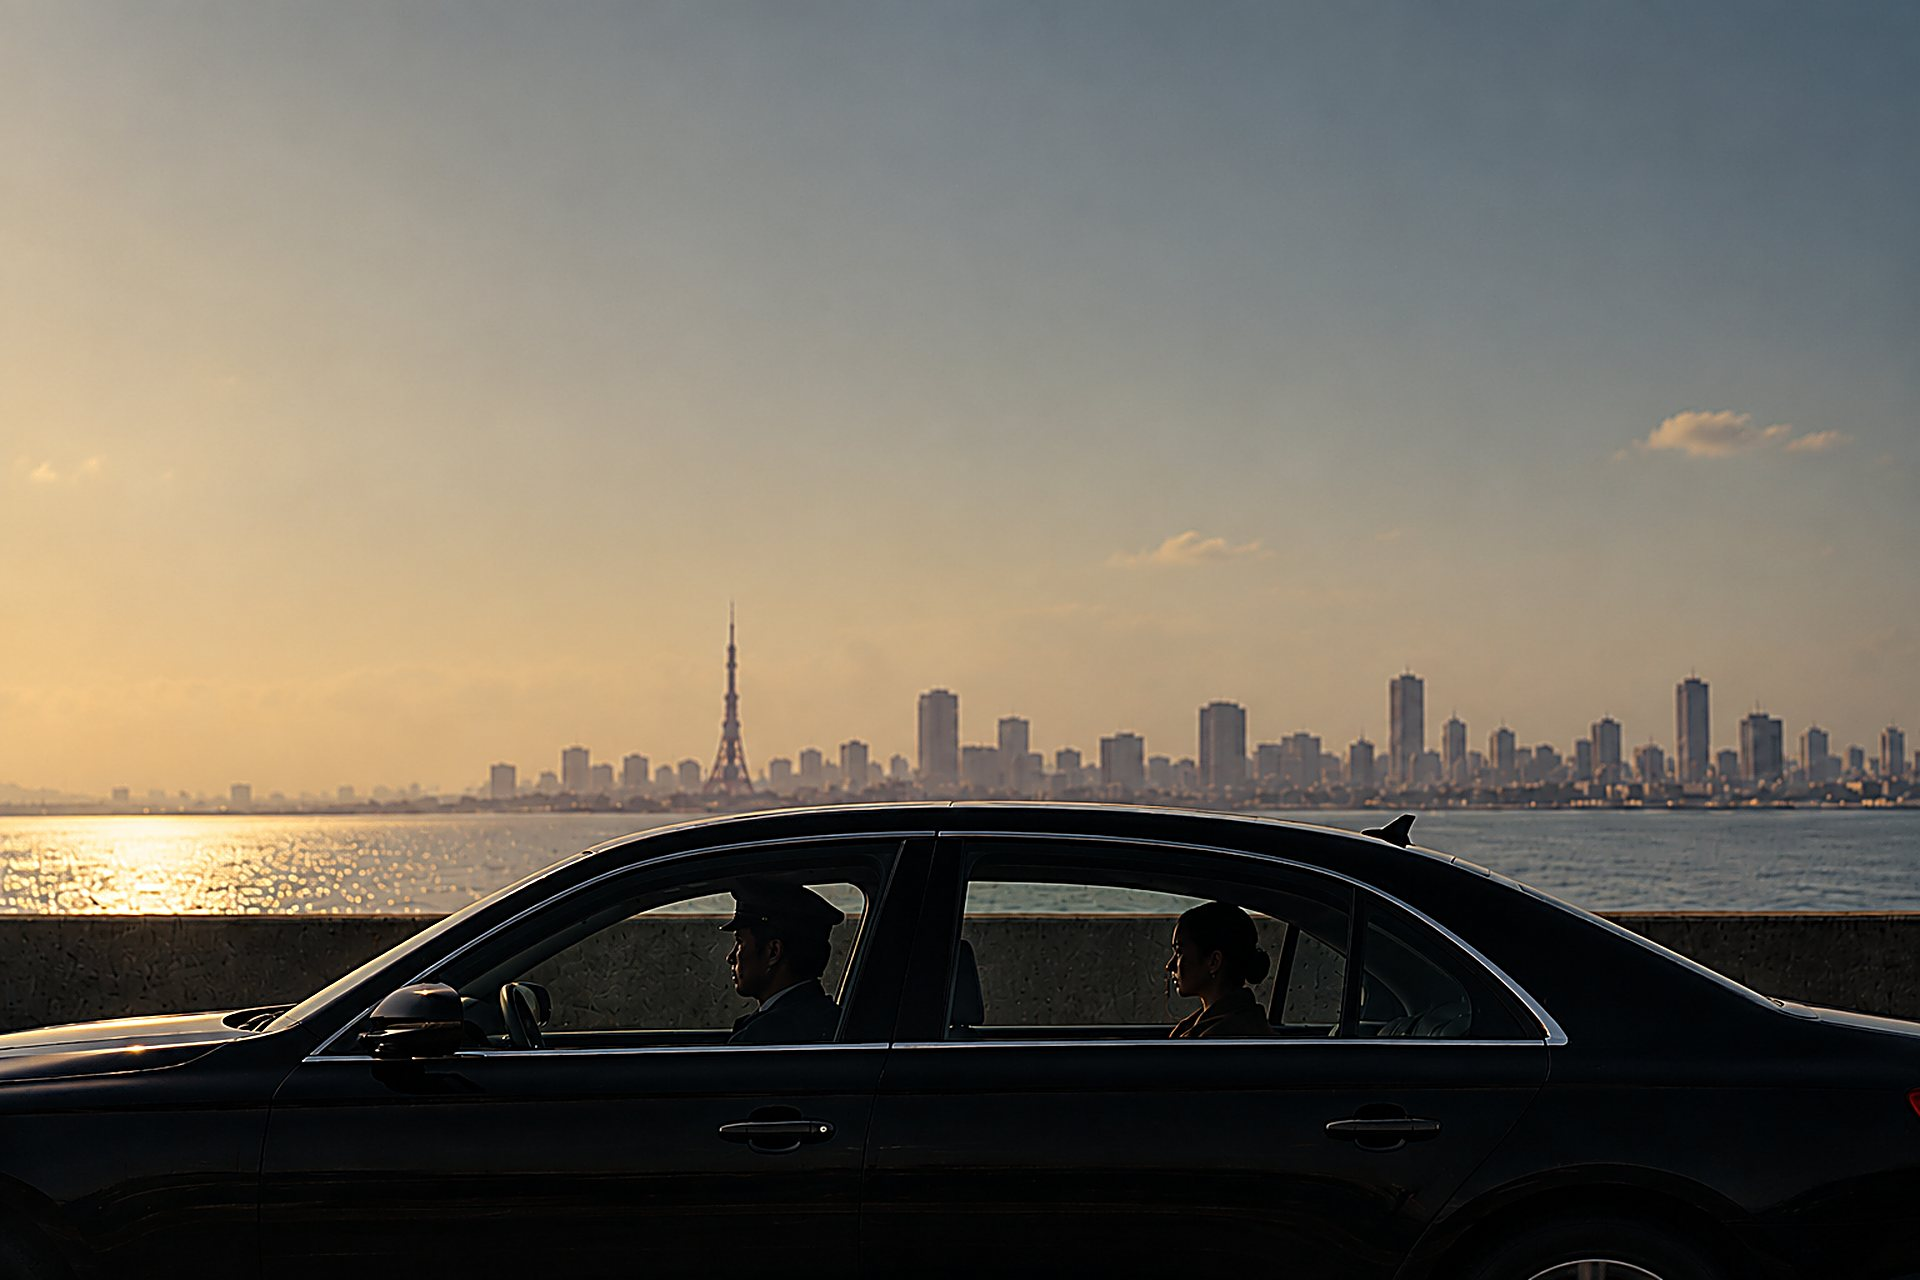
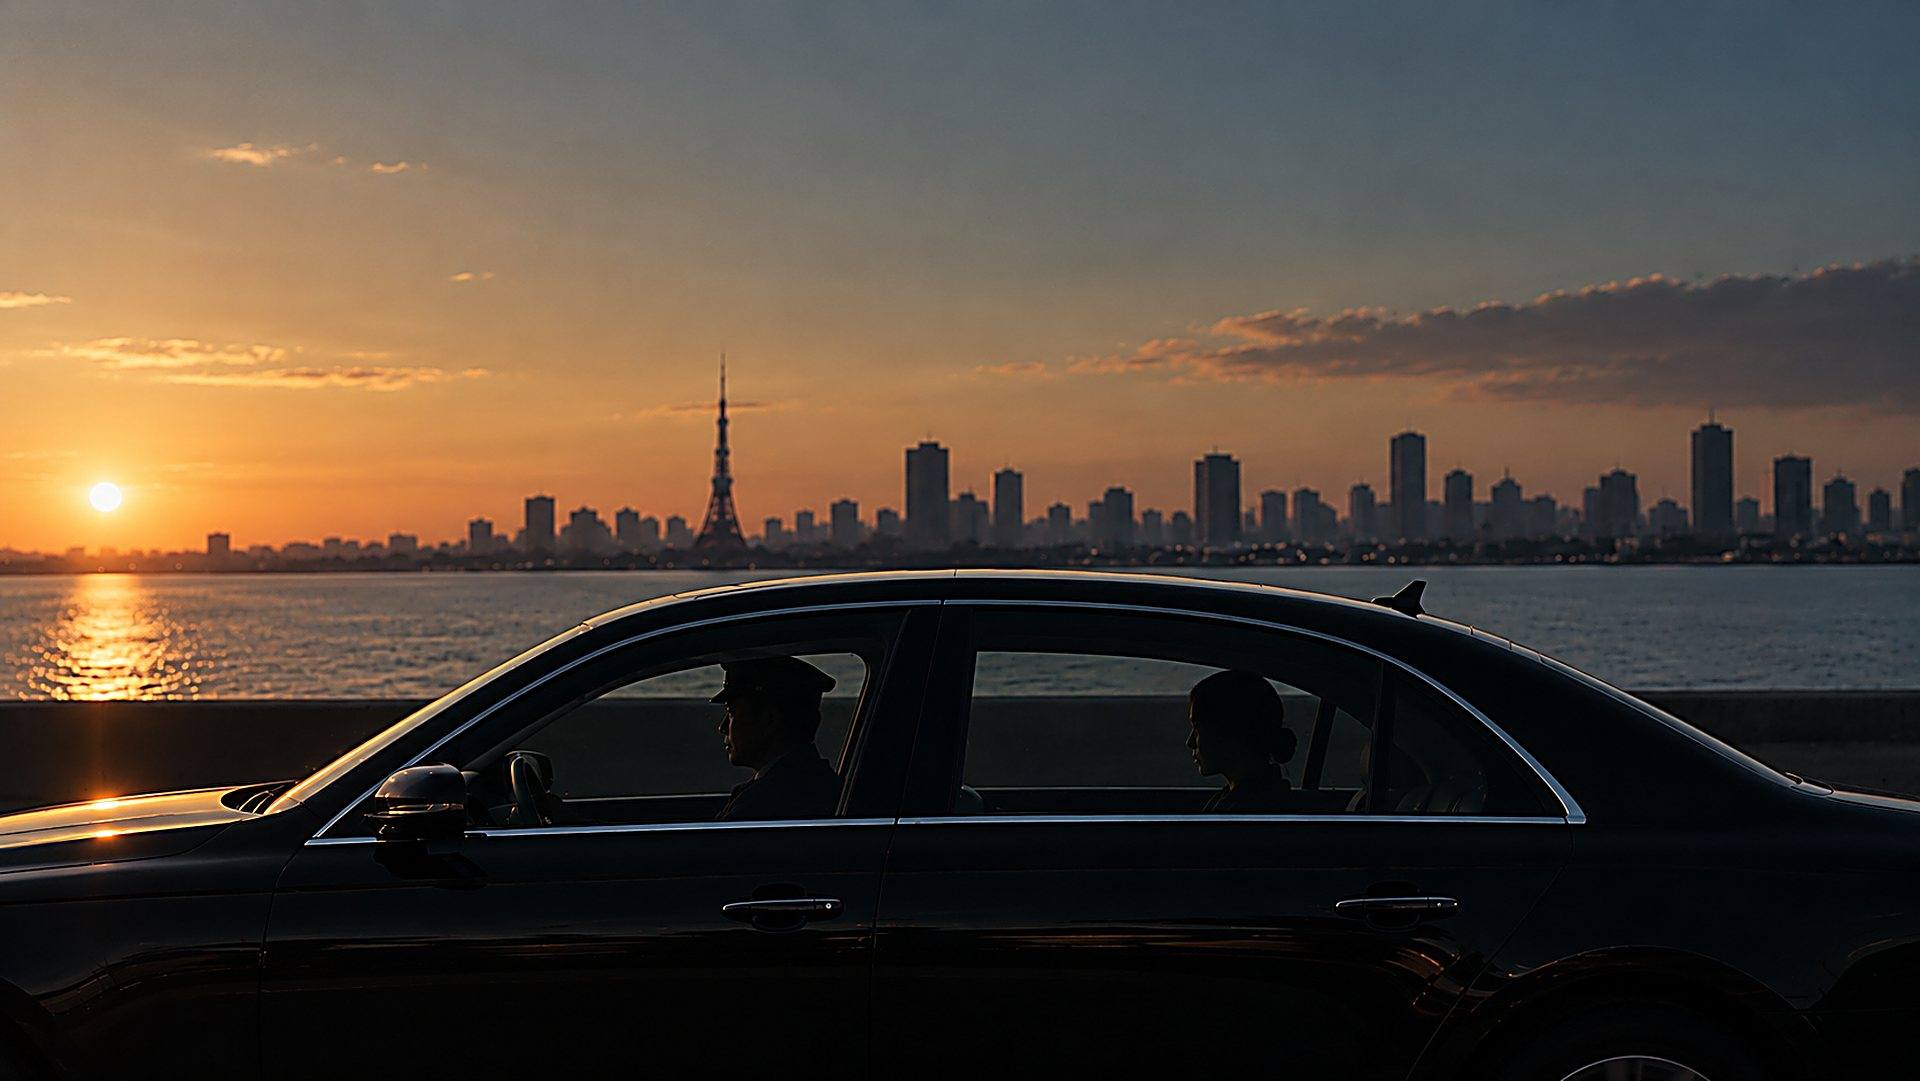
Use the sunset image for Tokyo on the home page

diff --git a/news/daddys-girl-dvd-and-vod-release.html b/news/daddys-girl-dvd-and-vod-release.html
@@ -19,7 +19,7 @@
 <link rel="icon" type="image/png" sizes="48x48" href="../images/icon-48.png">
 <link rel="icon" type="image/png" sizes="512x512" href="../images/icon-512.png">
 <link rel="apple-touch-icon" href="../images/icon-180.png">
-<link rel="stylesheet" href="../css/site.css?v=202610110440">
+<link rel="stylesheet" href="../css/site.css?v=202610110446">
 </head>
 <body>
 <header class="site-header">
@@ -99,6 +99,6 @@ Festival for the film. The cast is led by Jemma Dallender and Costas Mandylor, f
   <div class="frame"><iframe src="" title="Trailer" allow="autoplay; encrypted-media; picture-in-picture; fullscreen" referrerpolicy="strict-origin-when-cross-origin" allowfullscreen></iframe>
     <a class="yt-link" href="#" target="_blank" rel="noopener">Not playing? Watch on YouTube &rarr;</a></div>
 </div>
-<script src="../js/site.js?v=202610110440"></script>
+<script src="../js/site.js?v=202610110446"></script>
 </body>
 </html>

diff --git a/news/dark-light-us-release.html b/news/dark-light-us-release.html
@@ -19,7 +19,7 @@
 <link rel="icon" type="image/png" sizes="48x48" href="../images/icon-48.png">
 <link rel="icon" type="image/png" sizes="512x512" href="../images/icon-512.png">
 <link rel="apple-touch-icon" href="../images/icon-180.png">
-<link rel="stylesheet" href="../css/site.css?v=202610110440">
+<link rel="stylesheet" href="../css/site.css?v=202610110446">
 </head>
 <body>
 <header class="site-header">
@@ -98,6 +98,6 @@ Vertical Entertainment, according to Box Office Mojo&rsquo;s listing for the fil
   <div class="frame"><iframe src="" title="Trailer" allow="autoplay; encrypted-media; picture-in-picture; fullscreen" referrerpolicy="strict-origin-when-cross-origin" allowfullscreen></iframe>
     <a class="yt-link" href="#" target="_blank" rel="noopener">Not playing? Watch on YouTube &rarr;</a></div>
 </div>
-<script src="../js/site.js?v=202610110440"></script>
+<script src="../js/site.js?v=202610110446"></script>
 </body>
 </html>

diff --git a/news/tokyo-announced-for-2027.html b/news/tokyo-announced-for-2027.html
@@ -19,7 +19,7 @@
 <link rel="icon" type="image/png" sizes="48x48" href="../images/icon-48.png">
 <link rel="icon" type="image/png" sizes="512x512" href="../images/icon-512.png">
 <link rel="apple-touch-icon" href="../images/icon-180.png">
-<link rel="stylesheet" href="../css/site.css?v=202610110440">
+<link rel="stylesheet" href="../css/site.css?v=202610110446">
 </head>
 <body>
 <header class="site-header">
@@ -99,6 +99,6 @@ of his own. The two share almost no language, and the film stays with them acros
   <div class="frame"><iframe src="" title="Trailer" allow="autoplay; encrypted-media; picture-in-picture; fullscreen" referrerpolicy="strict-origin-when-cross-origin" allowfullscreen></iframe>
     <a class="yt-link" href="#" target="_blank" rel="noopener">Not playing? Watch on YouTube &rarr;</a></div>
 </div>
-<script src="../js/site.js?v=202610110440"></script>
+<script src="../js/site.js?v=202610110446"></script>
 </body>
 </html>

diff --git a/news/winter-dreams-in-development.html b/news/winter-dreams-in-development.html
@@ -19,7 +19,7 @@
 <link rel="icon" type="image/png" sizes="48x48" href="../images/icon-48.png">
 <link rel="icon" type="image/png" sizes="512x512" href="../images/icon-512.png">
 <link rel="apple-touch-icon" href="../images/icon-180.png">
-<link rel="stylesheet" href="../css/site.css?v=202610110440">
+<link rel="stylesheet" href="../css/site.css?v=202610110446">
 </head>
 <body>
 <header class="site-header">
@@ -99,6 +99,6 @@ self-loss: a story of chasing dreams, loving illusions, and waking up too late.<
   <div class="frame"><iframe src="" title="Trailer" allow="autoplay; encrypted-media; picture-in-picture; fullscreen" referrerpolicy="strict-origin-when-cross-origin" allowfullscreen></iframe>
     <a class="yt-link" href="#" target="_blank" rel="noopener">Not playing? Watch on YouTube &rarr;</a></div>
 </div>
-<script src="../js/site.js?v=202610110440"></script>
+<script src="../js/site.js?v=202610110446"></script>
 </body>
 </html>

diff --git a/news/chasm-coming-2027.html b/news/chasm-coming-2027.html
@@ -19,7 +19,7 @@
 <link rel="icon" type="image/png" sizes="48x48" href="../images/icon-48.png">
 <link rel="icon" type="image/png" sizes="512x512" href="../images/icon-512.png">
 <link rel="apple-touch-icon" href="../images/icon-180.png">
-<link rel="stylesheet" href="../css/site.css?v=202610110440">
+<link rel="stylesheet" href="../css/site.css?v=202610110446">
 </head>
 <body>
 <header class="site-header">
@@ -98,6 +98,6 @@ exploration of the space between silence, mystery, and becoming.</p>
   <div class="frame"><iframe src="" title="Trailer" allow="autoplay; encrypted-media; picture-in-picture; fullscreen" referrerpolicy="strict-origin-when-cross-origin" allowfullscreen></iframe>
     <a class="yt-link" href="#" target="_blank" rel="noopener">Not playing? Watch on YouTube &rarr;</a></div>
 </div>
-<script src="../js/site.js?v=202610110440"></script>
+<script src="../js/site.js?v=202610110446"></script>
 </body>
 </html>

diff --git a/news/dark-light-world-premiere-frightfest.html b/news/dark-light-world-premiere-frightfest.html
@@ -19,7 +19,7 @@
 <link rel="icon" type="image/png" sizes="48x48" href="../images/icon-48.png">
 <link rel="icon" type="image/png" sizes="512x512" href="../images/icon-512.png">
 <link rel="apple-touch-icon" href="../images/icon-180.png">
-<link rel="stylesheet" href="../css/site.css?v=202610110440">
+<link rel="stylesheet" href="../css/site.css?v=202610110446">
 </head>
 <body>
 <header class="site-header">
@@ -100,6 +100,6 @@ and Britflicks spoke to Reynolds ahead of the premiere.</p>
   <div class="frame"><iframe src="" title="Trailer" allow="autoplay; encrypted-media; picture-in-picture; fullscreen" referrerpolicy="strict-origin-when-cross-origin" allowfullscreen></iframe>
     <a class="yt-link" href="#" target="_blank" rel="noopener">Not playing? Watch on YouTube &rarr;</a></div>
 </div>
-<script src="../js/site.js?v=202610110440"></script>
+<script src="../js/site.js?v=202610110446"></script>
 </body>
 </html>

diff --git a/news/open-24-hours-trailer-and-release-date.html b/news/open-24-hours-trailer-and-release-date.html
@@ -19,7 +19,7 @@
 <link rel="icon" type="image/png" sizes="48x48" href="../images/icon-48.png">
 <link rel="icon" type="image/png" sizes="512x512" href="../images/icon-512.png">
 <link rel="apple-touch-icon" href="../images/icon-180.png">
-<link rel="stylesheet" href="../css/site.css?v=202610110440">
+<link rel="stylesheet" href="../css/site.css?v=202610110446">
 </head>
 <body>
 <header class="site-header">
@@ -99,6 +99,6 @@ Cole Vigue and Daniel O&rsquo;Meara.</p>
   <div class="frame"><iframe src="" title="Trailer" allow="autoplay; encrypted-media; picture-in-picture; fullscreen" referrerpolicy="strict-origin-when-cross-origin" allowfullscreen></iframe>
     <a class="yt-link" href="#" target="_blank" rel="noopener">Not playing? Watch on YouTube &rarr;</a></div>
 </div>
-<script src="../js/site.js?v=202610110440"></script>
+<script src="../js/site.js?v=202610110446"></script>
 </body>
 </html>

diff --git a/news/open-24-hours-at-screamfest.html b/news/open-24-hours-at-screamfest.html
@@ -19,7 +19,7 @@
 <link rel="icon" type="image/png" sizes="48x48" href="../images/icon-48.png">
 <link rel="icon" type="image/png" sizes="512x512" href="../images/icon-512.png">
 <link rel="apple-touch-icon" href="../images/icon-180.png">
-<link rel="stylesheet" href="../css/site.css?v=202610110440">
+<link rel="stylesheet" href="../css/site.css?v=202610110446">
 </head>
 <body>
 <header class="site-header">
@@ -100,6 +100,6 @@ Russell for Best Makeup.</p>
   <div class="frame"><iframe src="" title="Trailer" allow="autoplay; encrypted-media; picture-in-picture; fullscreen" referrerpolicy="strict-origin-when-cross-origin" allowfullscreen></iframe>
     <a class="yt-link" href="#" target="_blank" rel="noopener">Not playing? Watch on YouTube &rarr;</a></div>
 </div>
-<script src="../js/site.js?v=202610110440"></script>
+<script src="../js/site.js?v=202610110446"></script>
 </body>
 </html>

diff --git a/films/chasm.html b/films/chasm.html
@@ -19,7 +19,7 @@
 <link rel="icon" type="image/png" sizes="48x48" href="../images/icon-48.png">
 <link rel="icon" type="image/png" sizes="512x512" href="../images/icon-512.png">
 <link rel="apple-touch-icon" href="../images/icon-180.png">
-<link rel="stylesheet" href="../css/site.css?v=202610110440">
+<link rel="stylesheet" href="../css/site.css?v=202610110446">
 </head>
 <body>
 <header class="site-header">
@@ -97,6 +97,6 @@
   <div class="frame"><iframe src="" title="Trailer" allow="autoplay; encrypted-media; picture-in-picture; fullscreen" referrerpolicy="strict-origin-when-cross-origin" allowfullscreen></iframe>
     <a class="yt-link" href="#" target="_blank" rel="noopener">Not playing? Watch on YouTube &rarr;</a></div>
 </div>
-<script src="../js/site.js?v=202610110440"></script>
+<script src="../js/site.js?v=202610110446"></script>
 </body>
 </html>

diff --git a/films/daddys-girl.html b/films/daddys-girl.html
@@ -19,7 +19,7 @@
 <link rel="icon" type="image/png" sizes="48x48" href="../images/icon-48.png">
 <link rel="icon" type="image/png" sizes="512x512" href="../images/icon-512.png">
 <link rel="apple-touch-icon" href="../images/icon-180.png">
-<link rel="stylesheet" href="../css/site.css?v=202610110440">
+<link rel="stylesheet" href="../css/site.css?v=202610110446">
 </head>
 <body>
 <header class="site-header">
@@ -78,6 +78,6 @@
   <div class="frame"><iframe src="" title="Trailer" allow="autoplay; encrypted-media; picture-in-picture; fullscreen" referrerpolicy="strict-origin-when-cross-origin" allowfullscreen></iframe>
     <a class="yt-link" href="#" target="_blank" rel="noopener">Not playing? Watch on YouTube &rarr;</a></div>
 </div>
-<script src="../js/site.js?v=202610110440"></script>
+<script src="../js/site.js?v=202610110446"></script>
 </body>
 </html>

diff --git a/films/dark-light.html b/films/dark-light.html
@@ -19,7 +19,7 @@
 <link rel="icon" type="image/png" sizes="48x48" href="../images/icon-48.png">
 <link rel="icon" type="image/png" sizes="512x512" href="../images/icon-512.png">
 <link rel="apple-touch-icon" href="../images/icon-180.png">
-<link rel="stylesheet" href="../css/site.css?v=202610110440">
+<link rel="stylesheet" href="../css/site.css?v=202610110446">
 </head>
 <body>
 <header class="site-header">
@@ -78,6 +78,6 @@
   <div class="frame"><iframe src="" title="Trailer" allow="autoplay; encrypted-media; picture-in-picture; fullscreen" referrerpolicy="strict-origin-when-cross-origin" allowfullscreen></iframe>
     <a class="yt-link" href="#" target="_blank" rel="noopener">Not playing? Watch on YouTube &rarr;</a></div>
 </div>
-<script src="../js/site.js?v=202610110440"></script>
+<script src="../js/site.js?v=202610110446"></script>
 </body>
 </html>

diff --git a/films/open-24-hours.html b/films/open-24-hours.html
@@ -19,7 +19,7 @@
 <link rel="icon" type="image/png" sizes="48x48" href="../images/icon-48.png">
 <link rel="icon" type="image/png" sizes="512x512" href="../images/icon-512.png">
 <link rel="apple-touch-icon" href="../images/icon-180.png">
-<link rel="stylesheet" href="../css/site.css?v=202610110440">
+<link rel="stylesheet" href="../css/site.css?v=202610110446">
 </head>
 <body>
 <header class="site-header">
@@ -78,6 +78,6 @@
   <div class="frame"><iframe src="" title="Trailer" allow="autoplay; encrypted-media; picture-in-picture; fullscreen" referrerpolicy="strict-origin-when-cross-origin" allowfullscreen></iframe>
     <a class="yt-link" href="#" target="_blank" rel="noopener">Not playing? Watch on YouTube &rarr;</a></div>
 </div>
-<script src="../js/site.js?v=202610110440"></script>
+<script src="../js/site.js?v=202610110446"></script>
 </body>
 </html>
